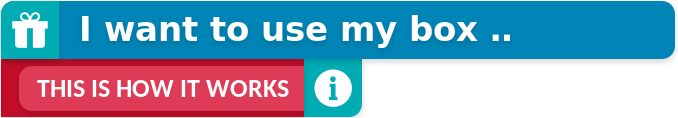
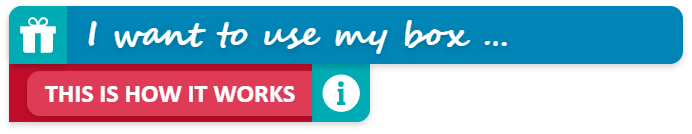
Dec 2 update

Changed region(s): [[0.0, 0.0, 1.0, 1.0]]

diff --git a/vendor/custom/custom-css.css b/vendor/custom/custom-css.css
@@ -2682,6 +2682,115 @@ padding-right: 0px !important;
     /*equal height */
     
 /*end equal height */
+
+/*Ipad Landscape */
+
+/* Landscape */
+@media only screen 
+and (min-device-width : 768px) 
+and (max-device-width : 1024px) 
+and (orientation : landscape) {
+      .why_happy_card {
+  height: 192px !important;
+}
+.sports_banner_title h3 {
+      padding: 2px 24px !important;
+}
+.cat_well .sports_card .selection_card_body {
+    height: 338px !important;
+}
+
+}
+
+/* end IPAD lanscape */
+/*Ipad Landscape */
+
+
+
+/* Portrait */
+@media only screen 
+  and (min-device-width: 768px) 
+  and (max-device-width: 1024px) 
+  and (orientation: portrait) 
+{
+    .user_activate_steps_i .col-11{
+      padding-left: 60px !important;
+    margin-top: -16px;
+    }
+    .activate_v_class{
+        padding-right: 20px !important;
+    }
+    .col-md-5 {
+    -ms-flex: 0 0 49.666667% !important;
+    flex: 0 0 49.666667% !important;
+    max-width: 49.666667% !important;
+}
+    .top-bar-nav{
+    text-align: right !important;
+}
+    .partner_logo_in img {
+    height: auto !important;
+   }
+      .well_banner,.gastronomy_banner,.sports_banner {
+    min-height:  282px !important;
+        height: auto !important;
+  
+}
+      .well_banner_title h3 ,.gastronomy_banner_title h3,.sports_banner_title h3{
+       font: Bold 22px/37px Segoe Script !important;
+    
+      }
+      .cat_cols{
+        flex: 0 0 50% !important;
+    max-width: 50% !important;
+}  
+      
+      .right_menu li a {
+       font-size: 16px !important;
+    
+      }
+      .right_menu img {
+    height: 27px;
+    margin-left: 4px;
+}
+            .why_happy_card {
+  height: 192px !important;
+}
+.sports_banner_title h3 {
+      padding: 2px 24px !important;
+}
+.cat_well .sports_card .selection_card_body {
+    height: 338px !important;
+}
+.navbar-light .navbar-toggler{
+   /* display: none !important;*/
+}
+.home_page .sports_card .selection_card_body {
+    height: 275px !important;
+    
+}
+.iwant_card_p {
+     height: 144px !important;    
+}.cat_well .pricing {
+        padding-top: 0px !important; 
+    font-size: 13px !important;
+}
+.why_happy_card_body img {
+    height: 42px;
+    margin-bottom: 14px;
+}
+.navbar-expand-sm .navbar-nav .nav-link {
+    padding-right: 0px !important;
+    padding-left: 0px !important;
+}
+.main-menu-left li a {
+    font-size: 16px !important;
+    
+}
+
+}
+
+/* end IPAD portrait */
 /*mobile view */
 @media (max-width: 767px) {
    .partner_wrap .mob_cart {
@@ -3887,6 +3996,7 @@ background: transparent;
 }
 }
 /*end mobile */
+
 
 .password_ok_img:hover{
     cursor: pointer !important;

diff --git a/client/user-dash-activate-voucher.php b/client/user-dash-activate-voucher.php
@@ -94,7 +94,7 @@ $token = json_decode($_SESSION['usr'])->access_token;
 		<div class="col-md-5 desktop_view">
 			<div class="user_activate_r">
 				<div class="user_activate_steps">
-					<img src="<?=$util->AppHome()?>/shared/img/user_iwant.svg" class="w-100"/>
+					<img src="<?=$util->AppHome()?>/shared/img/user_iwant.png" class="w-100"/>
 					<div class="border_blue_radius card_v_steps">
 						<div class="user_activate_steps_i">
 							<div class="row">
@@ -145,7 +145,7 @@ $token = json_decode($_SESSION['usr'])->access_token;
 		<div class="col-md-5 mobile_view">
 			<div class="user_activate_r">
 				<div class="user_activate_steps">
-					<img src="<?=$util->AppHome()?>/shared/img/user_iwant.svg" class="w-100 desktop_view"/> <img src="<?=$util->AppHome()?>/shared/img/iwant_mob.png" class="w-100 neg_img mobile_view"/>
+					<img src="<?=$util->AppHome()?>/shared/img/user_iwant.png" class="w-100 desktop_view"/> <img src="<?=$util->AppHome()?>/shared/img/iwant_mob.png" class="w-100 neg_img mobile_view"/>
 					<div class="border_blue_radius card_v_steps">
 						<div class="user_activate_steps_i">
 							<div class="row">

diff --git a/index.php b/index.php
@@ -27,7 +27,7 @@ $_all_boxes = json_decode($box->get_all_active('0'), true)['data'];
 	<?php include 'shared/partials/css.php'; ?>
 </head>
 
-<body class="client_body">
+<body class="client_body home_page">
 
 	<!-- Navigation -->
 	<?php include 'shared/partials/nav.php'; ?>
@@ -276,7 +276,7 @@ $_all_boxes = json_decode($box->get_all_active('0'), true)['data'];
 	<section class="container section_padding_top why_happy">
 		<div class="row">
 			<div class="col-md-12">
-				<img src="<?=$util->AppHome()?>/shared/img/whyhappy.svg" class="why_img desktop_view"> <img src="<?=$util->AppHome()?>/shared/img/whyhappymob.png" class="why_img mobile_view">
+				<img src="<?=$util->AppHome()?>/shared/img/whyhappy.png" class="why_img desktop_view"> <img src="<?=$util->AppHome()?>/shared/img/whyhappymob.png" class="why_img mobile_view">
 			</div>
 		</div>
 		<div class="row why_happy_card_row desktop_view">

diff --git a/category-gastronomy.php b/category-gastronomy.php
@@ -35,7 +35,7 @@ $_all_ptns = json_decode($user->get_ptn_bytopic($topic_selected_), true)['data']
 
 </head>
 
-<body class="client_body">
+<body class="client_body ">
   <!-- Navigation -->
   <?php include 'shared/partials/nav.php'; ?>
   <!-- Page Content -->
@@ -124,7 +124,7 @@ $_all_ptns = json_decode($user->get_ptn_bytopic($topic_selected_), true)['data']
         $_pop_str = str_replace("'", "", $_pop_str);
         $_pop_str = preg_replace("/\r|\n/", "", $_pop_str);
       ?>
-        <div class="col-md-4 no_pad_lr">
+        <div class="col-md-4 no_pad_lr cat_cols">
           <div class="card selection_card sports_card">
             <div class="sport_card_hover" onclick="booklet_show('<?= $_pop_str ?>')">
               <img src="<?= $util->AppHome() ?>/shared/img/icons/magnifyglass.svg" />

diff --git a/shared/partials/nav.php b/shared/partials/nav.php
@@ -126,7 +126,7 @@ if (isset($_SESSION['usr']) && !empty(json_decode($_SESSION['usr'])->access_toke
 				<!-- Links -->
 				<ul class="navbar-nav  ml-auto right_menu">
 					<li class="nav-item"> <a class="nav-link contact_nav <?= $ACTIVE_NAV4; ?>" href="<?= $util->AppHome() ?>/contact-us.php">Contact HAPPYBOX</a> </li>
-					<li class="nav-item"> <a class="nav-link" href="<?= $util->ClientHome() ?>/user-dash-activate-voucher.php"> <img src="<?= $util->AppHome() ?>/shared/img/icons/btn-register-your-voucher.svg"> </a> </li>
+					<li class="nav-item"> <a class="nav-link" href="<?= $util->ClientHome() ?>/user-dash-activate-voucher.php"> <img src="<?= $util->AppHome() ?>/shared/img/icons/btn-register-your-voucher.png"> </a> </li>
 				</ul>
 			</nav>
 		</div>

diff --git a/category-sports-adventure.php b/category-sports-adventure.php
@@ -124,7 +124,7 @@ $_all_ptns = json_decode($user->get_ptn_bytopic($topic_selected_), true)['data']
           $_pop_str = str_replace("'", "", $_pop_str);
           $_pop_str = preg_replace("/\r|\n/", "", $_pop_str);
       ?>
-          <div class="col-md-4 no_pad_lr">
+          <div class="col-md-4 no_pad_lr cat_cols">
             <div class="card selection_card sports_card">
               <div class="sport_card_hover" onclick="booklet_show('<?= $_pop_str ?>')">
                 <img src="<?= $util->AppHome() ?>/shared/img/icons/magnifyglass.svg" />

diff --git a/category-well-being.php b/category-well-being.php
@@ -119,7 +119,7 @@ $_all_ptns = json_decode($user->get_ptn_bytopic($topic_selected_), true)['data']
         $_pop_str = str_replace("'", "", $_pop_str);
         $_pop_str = preg_replace("/\r|\n/", "", $_pop_str);
       ?>
-        <div class="col-md-4 no_pad_lr">
+        <div class="col-md-4 no_pad_lr cat_cols">
           <div class="card selection_card sports_card">
             <div class="sport_card_hover" onclick="booklet_show('<?= $_pop_str ?>')">
               <img src="<?= $util->AppHome() ?>/shared/img/icons/magnifyglass.svg" />
